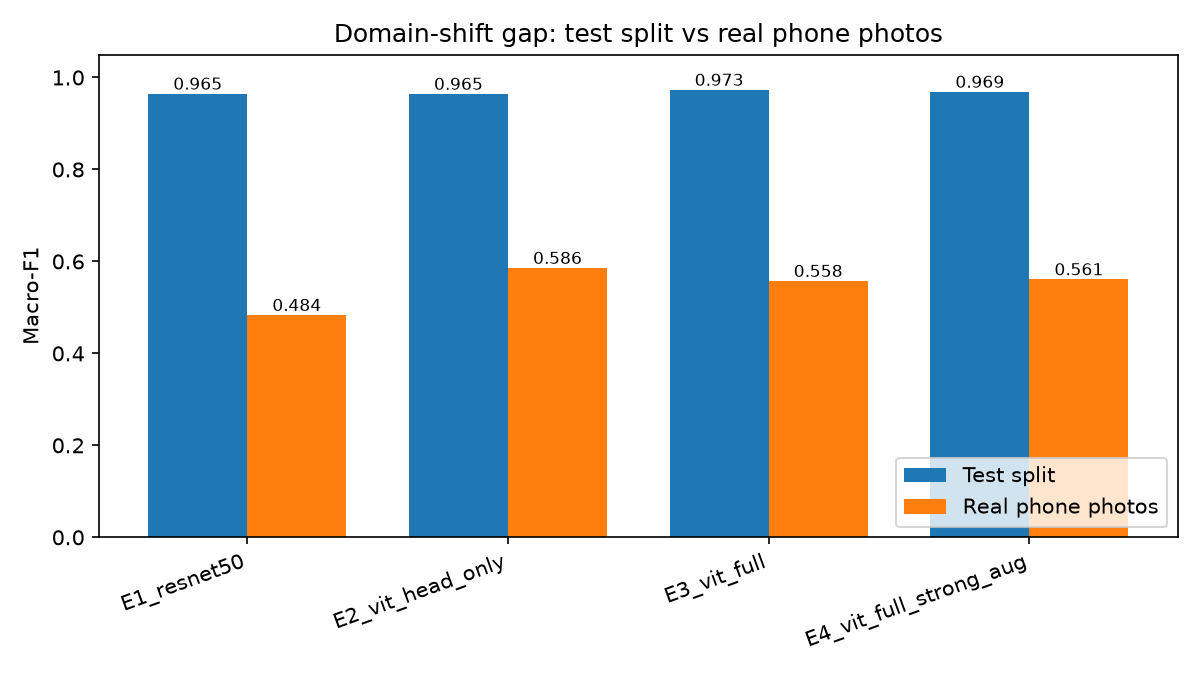
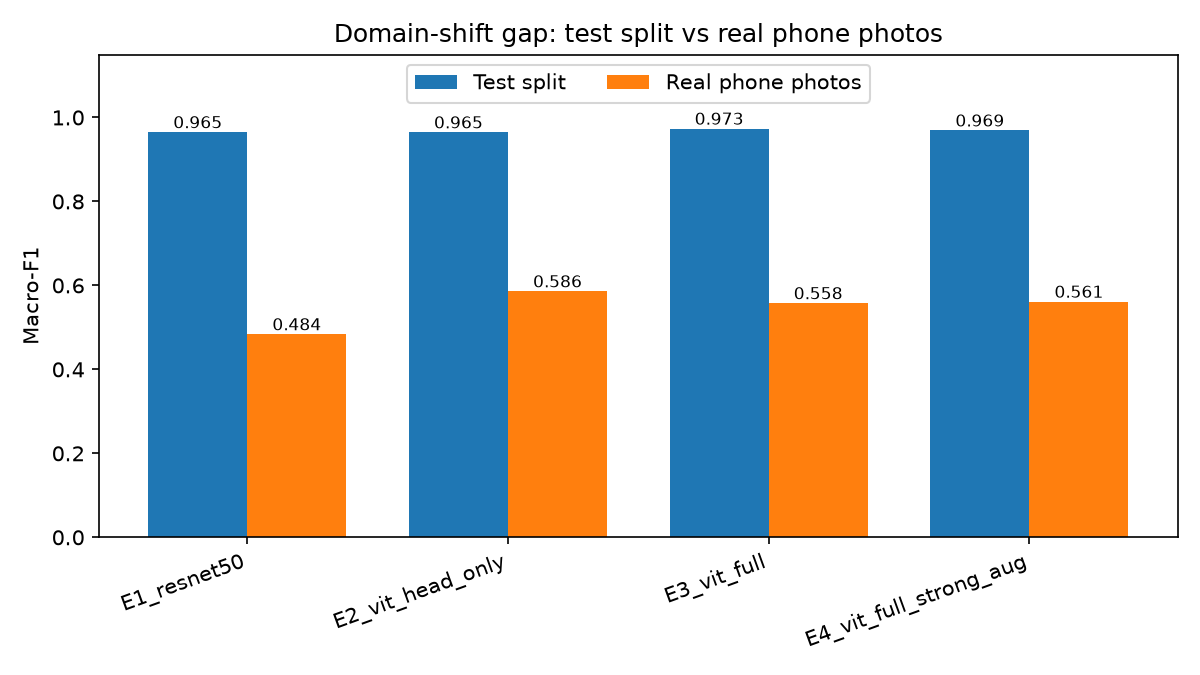
fix(figures): tidy legend and threshold labels

diff --git a/ans082/src/make_report_figures.py b/ans082/src/make_report_figures.py
@@ -58,10 +58,10 @@ def plot_test_vs_real(table: pd.DataFrame, out_png) -> None:
     ax.bar_label(real_bars, fmt="%.3f", fontsize=8)
     ax.set_xticks(positions)
     ax.set_xticklabels(table["experiment"], rotation=20, ha="right")
-    ax.set_ylim(0, 1.05)
+    ax.set_ylim(0, 1.15)
     ax.set_ylabel("Macro-F1")
     ax.set_title("Domain-shift gap: test split vs real phone photos")
-    ax.legend(loc="lower right")
+    ax.legend(loc="upper center", ncol=2)
     fig.tight_layout()
     fig.savefig(out_png, dpi=150)
     plt.close(fig)
@@ -96,6 +96,8 @@ def plot_threshold_curve(thr_val: pd.DataFrame, thr_real: pd.DataFrame, out_png,
         table = table.dropna(subset=["accuracy_on_accepted"])
         ax.plot(table["coverage"], table["accuracy_on_accepted"], marker="o", label=label)
         for _, row in table.iterrows():
+            if label == "validation" and row["threshold"] < 0.8:
+                continue
             ax.annotate(f"{row['threshold']:.2f}", (row["coverage"], row["accuracy_on_accepted"]),
                         textcoords="offset points", xytext=(4, 4), fontsize=7)
     ax.set_xlabel("Coverage (share of images the model answers)")
